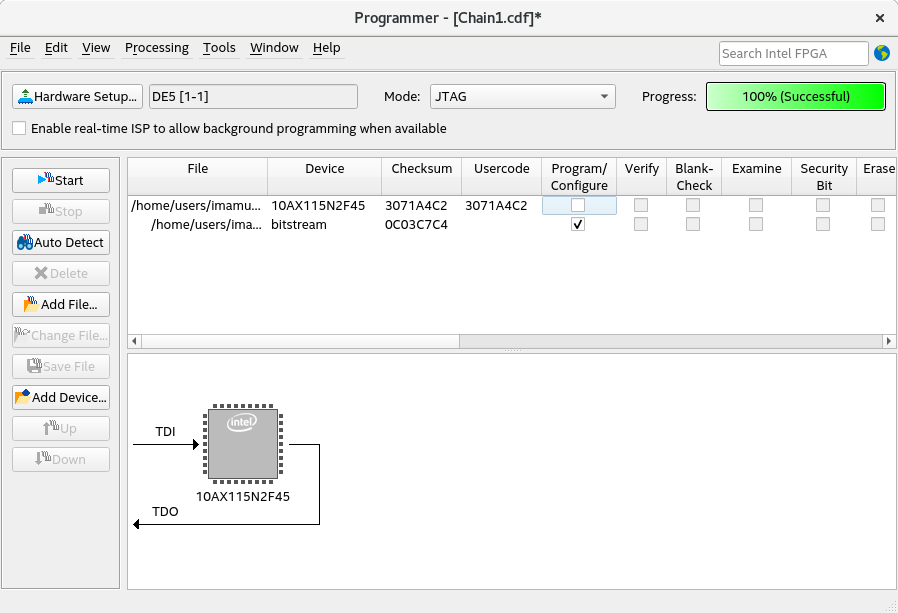
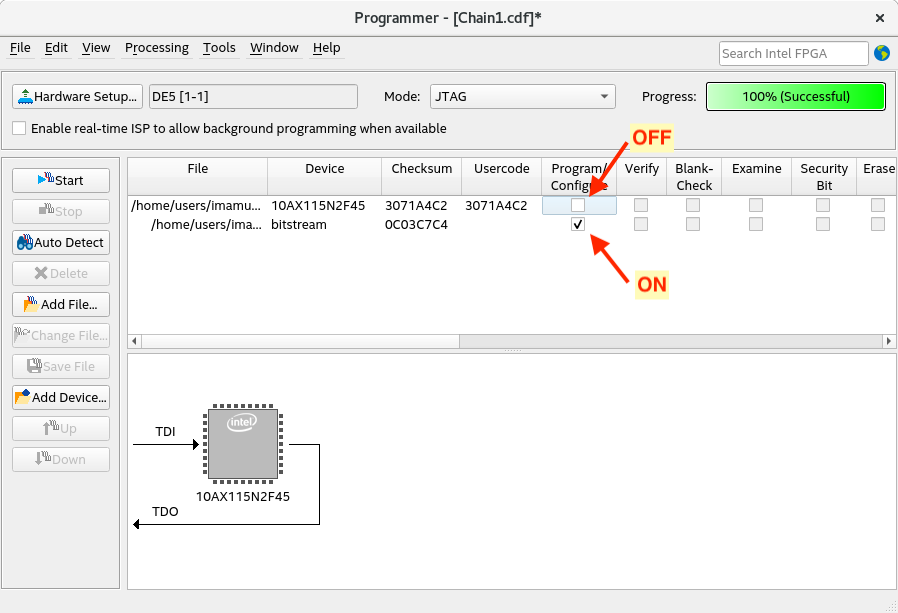
add 8_*images in README

diff --git a/README.md b/README.md
@@ -175,10 +175,13 @@ Implementation Revisions をつくる
 ## 8. ボードに載せる
 - Programmer を起動
 - .sofファイルを選択して Start
-- 載せたファイル(チップのイラスト?)を左クリックで選択し, 右クリック -> Edit -> Add PR Programming File をクリック
-- PRしたいモジュールの.rbfファイルを選択
+- 載せたファイル(チップのイラスト?)を左クリックで選択し, 右クリック -> Edit -> Add PR Programming File をクリック<br>
+  ![8_1](./image/8_1.png)<br><br><br>
+- PRしたいモジュールの.rbfファイルを選択<br>
+  ![8_2](./image/8_2.png)<br><br><br>
 - 最初に載せた .sofファイルの Program/Configure のチェックを外す
-- 今載せた .rbfファイルの Program/Configure にチェック
+- 今載せた .rbfファイルの Program/Configure にチェック<br>
+  ![8_3](./image/8_3.png)<br><br><br>
 - Start
 
 
